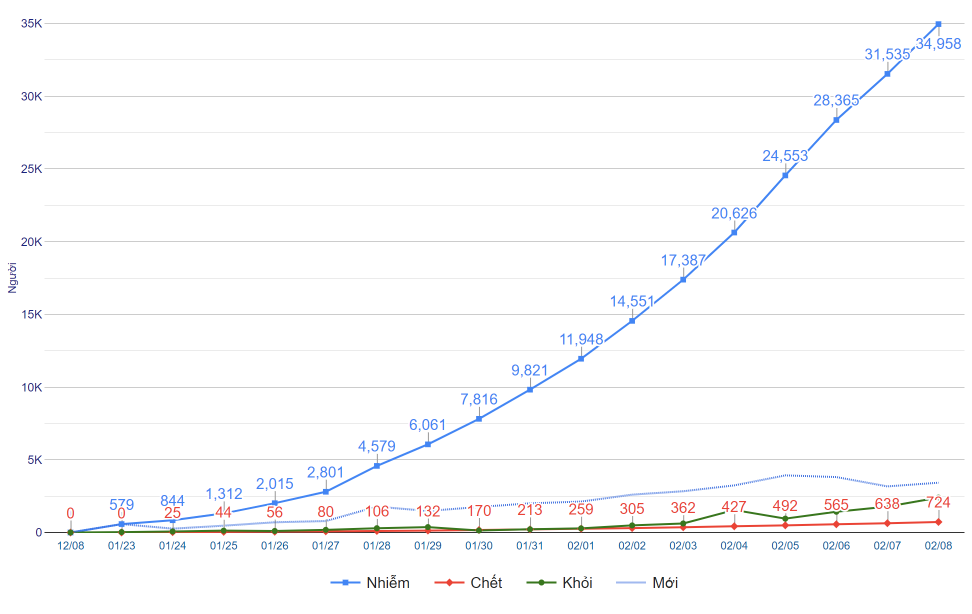
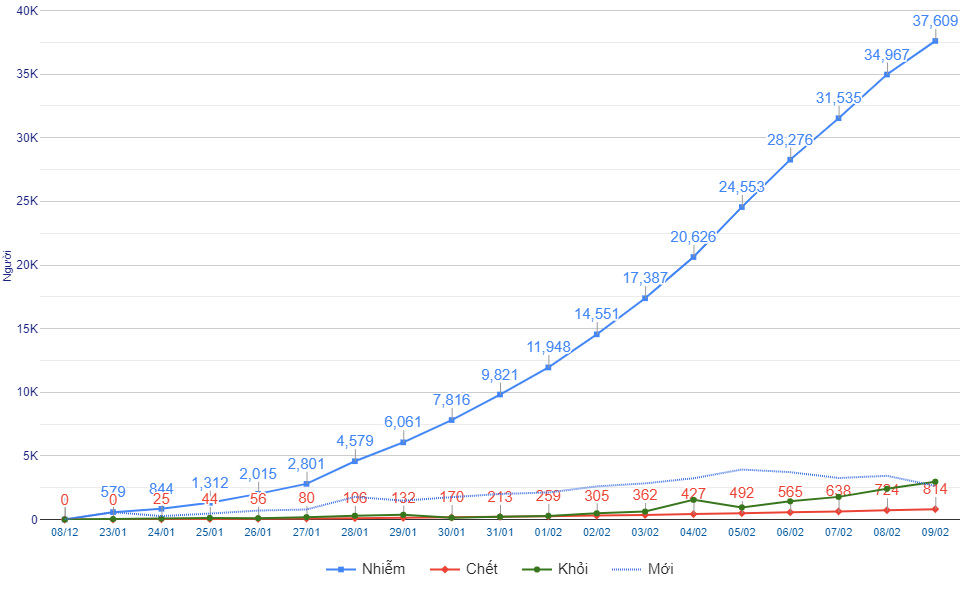
add japanese version, update chart image

diff --git a/ja/index.html b/ja/index.html
@@ -3,33 +3,33 @@
 
 <head>
   <meta charset='utf-8'>
-  <title>Cập nhật tình trạng virut Corona 2019 nCoV, Live update</title>
+  <title>新型コロナウイルス感染症の現在の状況</title>
   <meta name='viewport' content='width=device-width, initial-scale=1.0' />
 
-  <meta name="description" content="Cập nhật tình trạng virut Corona 2019 nCoV, Live update" />
-  <meta property="og:description" content="Cập nhật tình trạng virut Corona 2019 nCoV, Live update" />
-  <meta itemprop="description" content="Cập nhật tình trạng virut Corona 2019 nCoV, Live update">
-  <meta name="keywords" content="Cập nhật tình trạng virut Corona 2019 nCoV, Live update" />
+  <meta name="description" content="新型コロナウイルス感染症の現在の状況" />
+  <meta property="og:description" content="新型コロナウイルス感染症の現在の状況" />
+  <meta itemprop="description" content="新型コロナウイルス感染症の現在の状況">
+  <meta name="keywords" content="新型コロナウイルス感染症の現在の状況" />
 
   <meta name="author" content="Cualuoidanang.com" />
   <meta name="theme-color" content="#2f9697">
   <meta name="mobile-web-app-capable" content="yes">
 
-  <meta itemprop="name" content="Corona nCoV 2019 Live Update">
+  <meta itemprop="name" content="新型コロナウイルス感染症の現在の状況">
   <meta itemprop="image" content="https://ncov.ga/ncov.png">
 
   <meta property="og:url" content="https://ncov.ga" />
   <meta property="og:type" content="article" />
-  <meta property="og:title" content="Corona nCoV 2019 Live Update" />
+  <meta property="og:title" content="新型コロナウイルス感染症の現在の状況" />
   <meta property="og:image" content="https://ncov.ga/ncov.png" />
 
-  <meta name="twitter:title" content="Corona nCoV 2019 Live Update" />
+  <meta name="twitter:title" content="新型コロナウイルス感染症の現在の状況" />
   <meta name="twitter:image" content="https://ncov.ga/ncov.png" />
 
   <link href='https://fonts.googleapis.com/css?family=Open+Sans:400,700,900,400italic' rel='stylesheet' type='text/css'>
-  <link rel="shortcut icon" href="favicon.png">
+  <link rel="shortcut icon" href="../favicon.png">
 
-  <link rel='stylesheet' type='text/css' href='style.min.css'>
+  <link rel='stylesheet' type='text/css' href='../style.min.css'>
   <!-- Global site tag (gtag.js) - Google Analytics -->
   <script async src="https://www.googletagmanager.com/gtag/js?id=UA-12788638-4"></script>
   <script>
@@ -44,36 +44,36 @@
 
 <body>
   <div class="container">
-    <h1 id="logo"><a href="/">Virut Corona nCoV 2019</a></h1>
-    <div style="float: right;"><a href="ja" title="日本語版">日本語版</a></div>
-    <p><em>Cập nhật đến <span id="updatetime">6/2/2019 18:00</span>, tự động cập nhật sau mỗi 5 phút.</em></p>
+    <h1 id="logo"><a href="/">Virus Corona 2019-nCoV</a></h1>
+    <div style="float: right;"><a href="ja" title="Tiếng Việt">Tiếng Việt</a></div>
+    <p><em><span id="updatetime">6/2/2019/2/10 18:00</span>版, 5分ごとで自動的に更新します.</em></p>
 
     <div id="chart_div"></div>
     <div>
-      Chia sẻ lên <a class="" href="javascript:fbShare();">facebook</a>, hoặc lưu <a id="imageChart" download="ncov.png" href="#">hình ảnh</a>
+      <a class="" href="javascript:fbShare();">Facebookへシェア</a>, または <a id="imageChart" download="ncov.png" href="#">画像として保存</a>
     </div>
     <div id="fullTable" class="row">
       <div class="eight columns">
-        <h5>Hiện tại</h5>
+        <h5>現在の状況</h5>
         <table class="u-full-width">
           <thead>
             <tr>
-              <th>Ngày</th>
-              <th>Nhiễm (VN)</th>
-              <th>Tử vong (VN)</th>
-              <th>Bình phục (VN)</th>
-              <th>Nhiễm mới</th>
+              <th>月日</th>
+              <th>感染 (VN)</th>
+              <th>死亡 (VN)</th>
+              <th>復帰 (VN)</th>
+              <th>新感染</th>
             </tr>
           </thead>
           <tbody id="world"></tbody>
         </table>
       </div>
       <div class="four columns">
-        <h5>Việt Nam</h5>
+        <h5>ベトナム</h5>
         <div id="vn-stats">
-          <div class="one-half column">Nhiễm<h3 id="vn-n">-</h3>
+          <div class="one-half column">感染<h3 id="vn-n">-</h3>
           </div>
-          <div class="one-half column">Tử vong<h3 id="vn-tv">-</h3>
+          <div class="one-half column">死亡<h3 id="vn-tv">-</h3>
           </div>
         </div>
         <div style="overflow: hidden;background-color: #ddd;position: relative;">
@@ -81,7 +81,7 @@
           <div id="map">
           </div>
           <div id="note">
-            <span class="circle congbodich">&nbsp;</span>Nơi có dịch
+            <span class="circle congbodich">&nbsp;</span>感染箇所
             <!--<span class="circle noidieutri">+</span>Nơi điều trị -->
           </div>
         </div>
@@ -90,7 +90,7 @@
     </div>
 
     <div>
-      <h5>Tin tức</h5>
+      <h5>ニュース</h5>
       <ul id="feed"></ul>
     </div>
     <hr>
@@ -98,33 +98,33 @@
       <div class="footer">
         <div class="row">
           <div class="three columns">
-            <h5>Kiến thức</h5>
+            <h5>知識</h5>
             <ul>
-              <li><a href="/whatiscorona.html">Virus corona 2019 là gì?</a></li>
-              <li><a href="/whatiscorona.html">Nguồn gốc của 2019-nCoV</a></li>
-              <li><a href="/whatiscorona.html">Cơ chế lây lan</a></li>
+              <li><a href="/whatiscorona.html">コロナウイルスとは?</a></li>
+              <li><a href="/whatiscorona.html">2019-nCoV</a></li>
+              <li><a href="/whatiscorona.html">感染の広がり</a></li>
             </ul>
           </div>
           <div class="three columns">
-            <h5>Phòng ngừa</h5>
+            <h5>予防</h5>
             <ul>
-              <li>Rửa tay thường xuyên</li>
-              <li>Đeo khẩu trang</li>
-              <li>Tránh nơi đông người</li>
-              <li>Tránh tiếp xúc vật nuôi</li>
+              <li>手をよく荒い</li>
+              <li>マスクをする</li>
+              <li>...</li>
+              <li>...</li>
             </ul>
           </div>
           <div class="three columns">
-            <h5>Triệu chứng</h5>
+            <h5>症状</h5>
             <ul>
-              <li>Sốt</li>
-              <li>Ho</li>
-              <li>Khó thở</li>
-              <li>Ủ bệnh 2-14 ngày</li>
+              <li>40℃程度の高熱</li>
+              <li>乾いた咳</li>
+              <li>息切れ</li>
+              <li>2-14日潜伏期間</li>
             </ul>
           </div>
           <div class="three columns">
-            <h5>Đường dây nóng</h5>
+            <h5>Hotline</h5>
             <ul>
               <li><a href="tel:19009095">1900-9095</a></li>
               <li><a href="tel:19003228">1900-3228</a></li>
@@ -137,11 +137,11 @@
   </div>
 
   <div style="text-align: center;">
-    <p>Phát triển bởi nht@huuthanhdtd.com. Dữ liệu: Bộ Y tế, WorldOMeters</p>
+    <p>Designed by nht@huuthanhdtd.com. 参照: ベトナムの厚生省, WorldOMeters</p>
   </div>
 
-  <script src="raphael.min.js"></script>
-  <script src="map.min.js"></script>
+  <script src="../raphael.min.js"></script>
+  <script src="../map.min.js"></script>
   <script src='https://cdnjs.cloudflare.com/ajax/libs/tabletop.js/1.5.1/tabletop.min.js'></script>
   <script type="text/javascript" src="https://www.gstatic.com/charts/loader.js"></script>
   <script type="text/javascript">
@@ -168,13 +168,13 @@
 
     function drawAxisTickColors() {
       var data = new google.visualization.DataTable();
-      data.addColumn('string', 'Ngày');
-      data.addColumn('number', 'Nhiễm');
+      data.addColumn('string', '月日');
+      data.addColumn('number', '感染');
       data.addColumn({ type: 'number', role: 'annotation' });
-      data.addColumn('number', 'Chết');
+      data.addColumn('number', '死亡');
       data.addColumn({ type: 'number', role: 'annotation' });
-      data.addColumn('number', 'Khỏi');
-      data.addColumn('number', 'Mới');
+      data.addColumn('number', '復帰');
+      data.addColumn('number', '新');
       //data.addColumn({type: 'number', role: 'annotation'});
       for (i = 0; i < dt.length; i++) {
         var nn = parseInt(dt[i]['Nghi Nhiễm'])
@@ -202,7 +202,7 @@
           slantedTextAngle: 90
         },
         vAxis: {
-          title: 'Người',
+          title: '者数',
           textStyle: {
             color: '#1a237e',
             fontSize: 12,
@@ -259,9 +259,9 @@
     setInterval(getData, 60000);
   </script>
 
-  <script src="feednami.js"></script>
+  <script src="../feednami.js"></script>
   <script type="text/javascript">
-    const url = 'https://news.google.com/atom/search?q=corona&hl=vi&gl=VN&ceid=VN:vi'
+    const url = 'https://news.google.com/atom/search?q=corona&hl=ja&gl=JP&ceid=JP:ja'
     const textarea = document.getElementById('feed')
     feednami.load(url)
       .then(feed => {
@@ -280,7 +280,7 @@
     function fbShare() {
         var winTop = (screen.height / 2) - (520 / 2);
         var winLeft = (screen.width / 2) - (350 / 2);
-        window.open('https://www.facebook.com/sharer/sharer.php?u=https://ncov.ga/', 'sharer', 'top=' + winTop + ',left=' + winLeft + ',toolbar=0,status=0,width=520,height=350');
+        window.open('https://www.facebook.com/sharer/sharer.php?u=https://ncov.ga/ja', 'sharer', 'top=' + winTop + ',left=' + winLeft + ',toolbar=0,status=0,width=520,height=350');
         return false;
       }
   </script>
